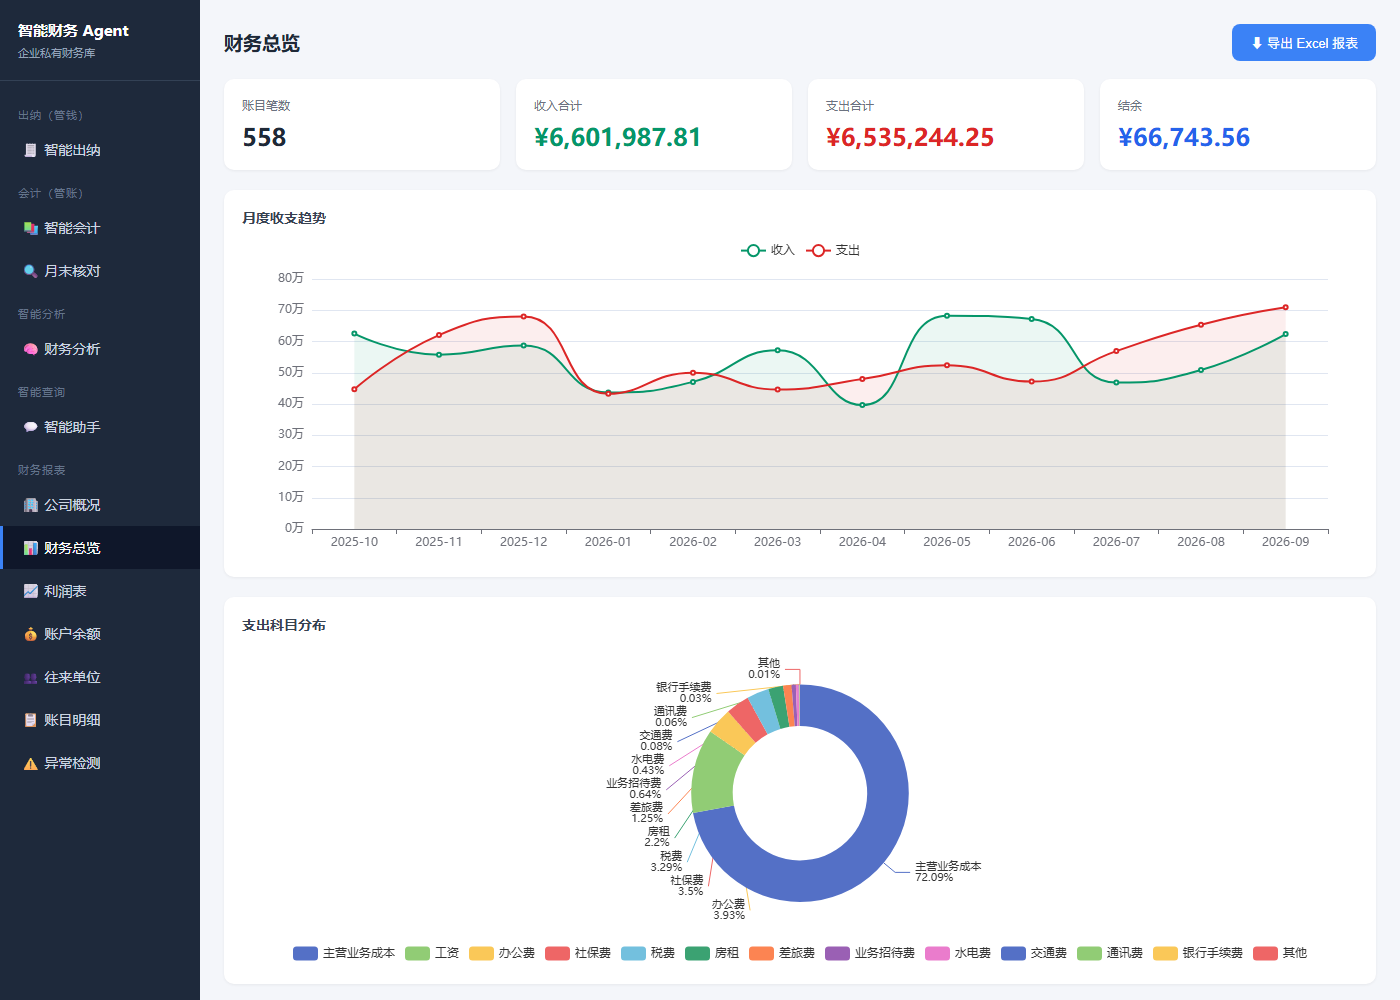
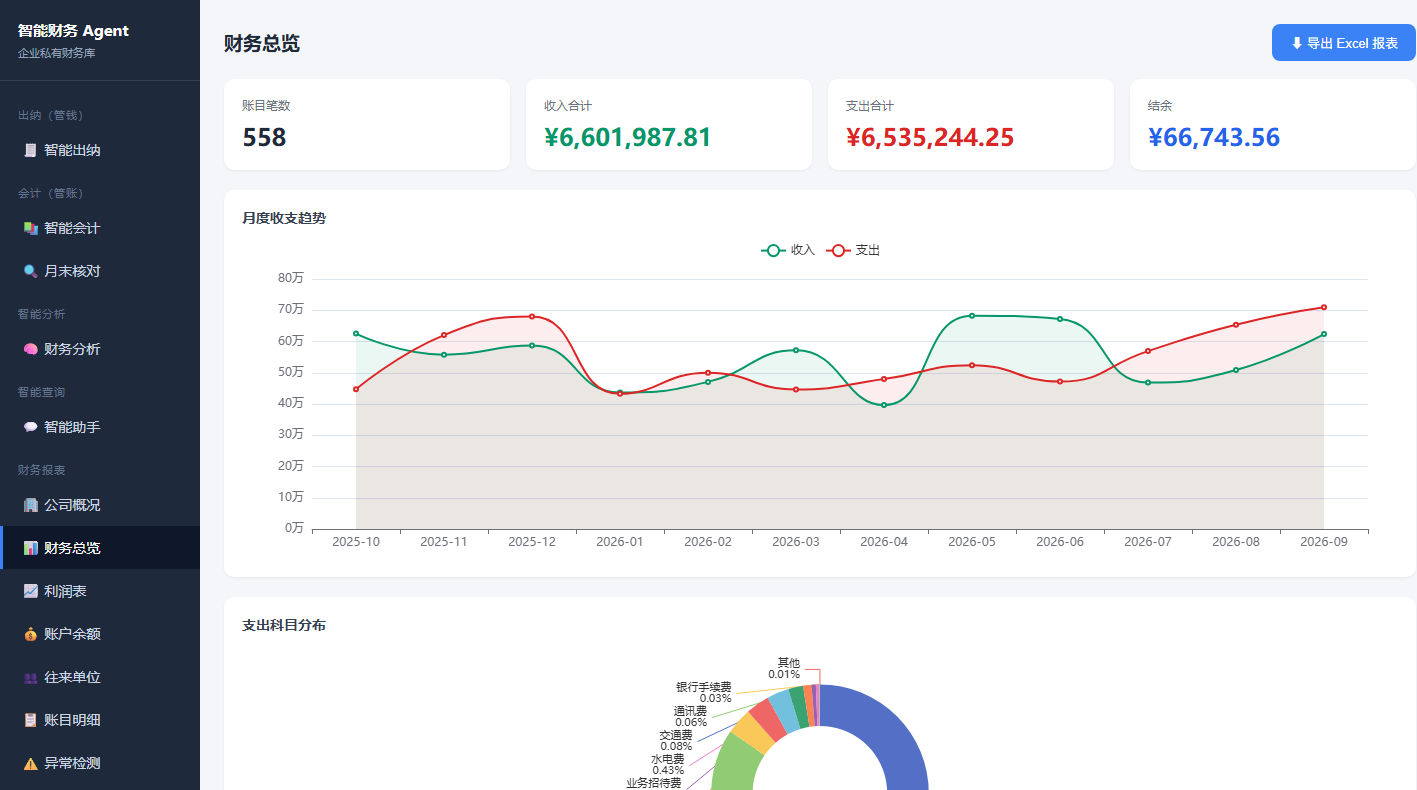
docs(readme): 界面预览扩成三组截图；顺手修掉对账入口的两个 bug
- README 预览从 3 张扩到 12 张：看账 / 做账 / 和 Agent 协作
- 异常检测页「开始对账」调用了不存在的 .invoke()，直接 500；
  改为直接调用，并在未指定期间时自动检查最近一个有数据的期间
- 对账结果按异常类型汇总（缺凭证 / 大额 / 重复），不再逐条刷屏
- 历史对话里的 AI 消息也走 markdown 渲染，刷新后不再显示原始 ## 和表格符号

diff --git a/web/index.html b/web/index.html
@@ -1590,7 +1590,10 @@ function addMsg(role, text) {
   const d = document.createElement('div');
   d.className = 'msg ' + role;
   const b = document.createElement('div');
-  b.className = 'bubble'; b.textContent = text;
+  b.className = 'bubble';
+  // AI 的历史消息也走 markdown 渲染：否则刷新后表格/标题会显示成原始符号
+  if (role === 'ai') { b.classList.add('md'); b.innerHTML = mdRender(text); }
+  else b.textContent = text;
   d.appendChild(b); chatBox.appendChild(d);
   chatBox.scrollTop = chatBox.scrollHeight;
   return b;
@@ -2096,8 +2099,28 @@ async function runReconcile() {
   try {
     const r = await fetch('/api/v1/stats/reconcile', {method:'POST'});
     const d = await r.json();
-    box.textContent = d.report || JSON.stringify(d);
+    renderReconcile(d);
   } catch(e) { box.textContent = '失败：' + e; }
+}
+
+function renderReconcile(d){
+  const rep = d.report || {};
+  const box = document.getElementById('reconcileResult');
+  if (rep.message) { box.textContent = rep.message; return; }
+  const types = rep.anomaly_by_type || {};
+  const lines = Object.entries(types).map(([k, n]) => {
+    const samples = (rep.anomalies || []).filter(x => x['类型'] === k).slice(0, 3)
+      .map(x => {
+        const ids = Array.isArray(x['单据']) ? x['单据'].join('、') : x['单据'];
+        const amount = x['金额'] != null ? '¥' + fmt(x['金额']) : '';
+        return `${amount}${ids ? ' 单据 ' + esc(String(ids)) : ''}`.trim();
+      }).filter(Boolean).join('；');
+    return `<li><b>${esc(k)}</b>　${n} 条${samples ? '：' + samples : ''}${n > 3 ? ' …' : ''}</li>`;
+  }).join('');
+  box.innerHTML = `<div style="margin-bottom:10px">期间 <b>${esc(rep.period || '')}</b>　`
+    + `已入账 <b>${rep.count ?? 0}</b> 笔　收入 ${fmt(rep.income || 0)}　支出 ${fmt(rep.expense || 0)}　`
+    + `异常 <b>${rep.anomaly_count ?? 0}</b> 条</div>`
+    + (lines ? `<ul style="margin:0;padding-left:20px">${lines}</ul>` : '<div>未发现异常</div>');
 }
 </script>
 </body>

diff --git a/src/finharness/api/v1/stats.py b/src/finharness/api/v1/stats.py
@@ -44,11 +44,17 @@ def entries(
 
 
 @router.post("/reconcile", summary="执行对账，返回异常报告")
-def reconcile() -> dict:
+def reconcile(period: str = Query(default="", description="YYYY-MM，不填=最近一个有数据的期间")) -> dict:
     from ...tools.finance import reconcile_month
 
+    if not period:
+        # 当前月没账时检查最近一个有数据的期间，否则页面永远显示“没有账目”
+        from ...services.report_service import available_periods
+        months = available_periods()
+        period = months[-1] if months else ""
+
     entries = stats_service.list_entries(limit=2000)
-    report = reconcile_month.invoke({})
+    report = reconcile_month(period)
     return {"report": report, "checked": len(entries)}
 
 

diff --git a/src/finharness/tools/finance.py b/src/finharness/tools/finance.py
@@ -152,12 +152,16 @@ def reconcile_month(period: str = "") -> dict:
 
     income = round(sum(r.amount for r in rows if r.entry_type == "income"), 2)
     expense = round(sum(r.amount for r in rows if r.entry_type == "expense"), 2)
+    by_type: dict[str, int] = {}
+    for a in anomalies:
+        by_type[a["类型"]] = by_type.get(a["类型"], 0) + 1
     return {
         "period": period,
         "count": len(rows),
         "income": income,
         "expense": expense,
         "anomaly_count": len(anomalies),
+        "anomaly_by_type": by_type,
         "anomalies": anomalies[:15],
         "bank_reconciled": bool(recon.reconciled) if recon else False,
     }

diff --git a/README.md b/README.md
@@ -14,28 +14,49 @@
 
 ## 界面预览
 
-**一个界面，用户同时是使用者也是把关人**——记账、审核、对账、报表、财务分析，都在这里，
-对话也在同一个窗口里：
+**一个界面，用户同时是使用者也是把关人**——看账、做账、和 Agent 对话，都在同一个窗口里。
 
-![财务总览](docs/screenshots/overview.png)
+### 一、看账
 
-财务总览：558 笔账目、12 个月收支趋势、支出科目分布（演示账套）。
+| <img src="docs/screenshots/overview.png" width="440"> | <img src="docs/screenshots/entries.png" width="440"> |
+|---|---|
+| **财务总览**：558 笔账目、12 个月收支趋势、支出科目分布 | **账目明细**：每笔的借贷方向、科目、状态与凭证 |
 
-Agent 要碰**工作区之外的东西**（读你的文件、执行命令），卡片会**弹在对话里**，
-命令原样显示给你看清楚再决定。批过的卡会留痕：
+| <img src="docs/screenshots/income.png" width="440"> | <img src="docs/screenshots/balances.png" width="440"> |
+|---|---|
+| **利润表**：营业收入、成本、费用逐级算出净利润 | **账户余额**：资产 / 负债 / 权益三张表，自动配平 |
 
-![对话里的授权卡片](docs/screenshots/approval-inline.jpg)
+| <img src="docs/screenshots/counterparties.png" width="440"> | <img src="docs/screenshots/company.png" width="440"> |
+|---|---|
+| **往来单位**：每个客户/供应商的笔数、金额、挂账 | **公司概况**：演示账套的业务背景与经营规模 |
 
-上图里：第一张卡（`dir /b`）已批准、留了痕迹；第二张卡是 Agent 又想换个路径重试——
-**每一次都要单独点**，批过一条不等于放过所有。
+### 二、做账：出纳 → 会计 → 月末
 
-「🔍 月末核对」页还可以一键招**只读的常驻稽核员**做全面稽核，
-结论直接显示在页面上，不占主对话上下文：
+| <img src="docs/screenshots/record.png" width="300"> | <img src="docs/screenshots/accounting.png" width="440"> | <img src="docs/screenshots/checkup.png" width="440"> |
+|---|---|---|
+| **智能出纳**：上传凭证，自动填金额/日期/对方，只登记待审核 | **智能会计**：逐笔审核——定科目、通过、驳回；入账必须在这里做 | **月末核对**：现金盘点 / 银行调节表 / 往来对账单 |
 
-![全面稽核](docs/screenshots/month-end-audit.png)
+<img src="docs/screenshots/month-end-audit.png" width="760">
 
-跑完之后，Agent 这一趟每一步干了什么，会落成一份 HTML 时间线，从对话里的
-「↗ 看它怎么做的」点开就能回看。
+**全面稽核**：一键招**只读的常驻稽核员**，整期账目导成清单交给它，结论直接回显，不占主对话上下文。
+
+<img src="docs/screenshots/reconcile.png" width="760">
+
+**异常检测**：三类异常按类型汇总（缺凭证、大额、疑似重复），点一次就能扫完整个期间。
+
+### 三、和 Agent 协作
+
+<img src="docs/screenshots/chat.png" width="760">
+
+**对话里直接查账**：结论用 markdown 渲染，每一步调了哪些工具都会标出来；跑完留一个「↗ 看它怎么做的」。
+
+<img src="docs/screenshots/trace-timeline.png" width="760">
+
+**执行链路时间线**：每一轮 `model` / `tool` 的耗时、参数、上下文大小（`ctx_chars`）都落成 HTML，离线也能回看。
+
+<img src="docs/screenshots/approval-inline.jpg" width="420">
+
+**授权卡片弹在对话里**：Agent 要碰工作区外的东西（读文件、执行命令），命令原样显示，你点允许才执行。批过的卡留痕；**换一条命令要重新点**，批过一次不等于放过所有。
 
 ---
 
